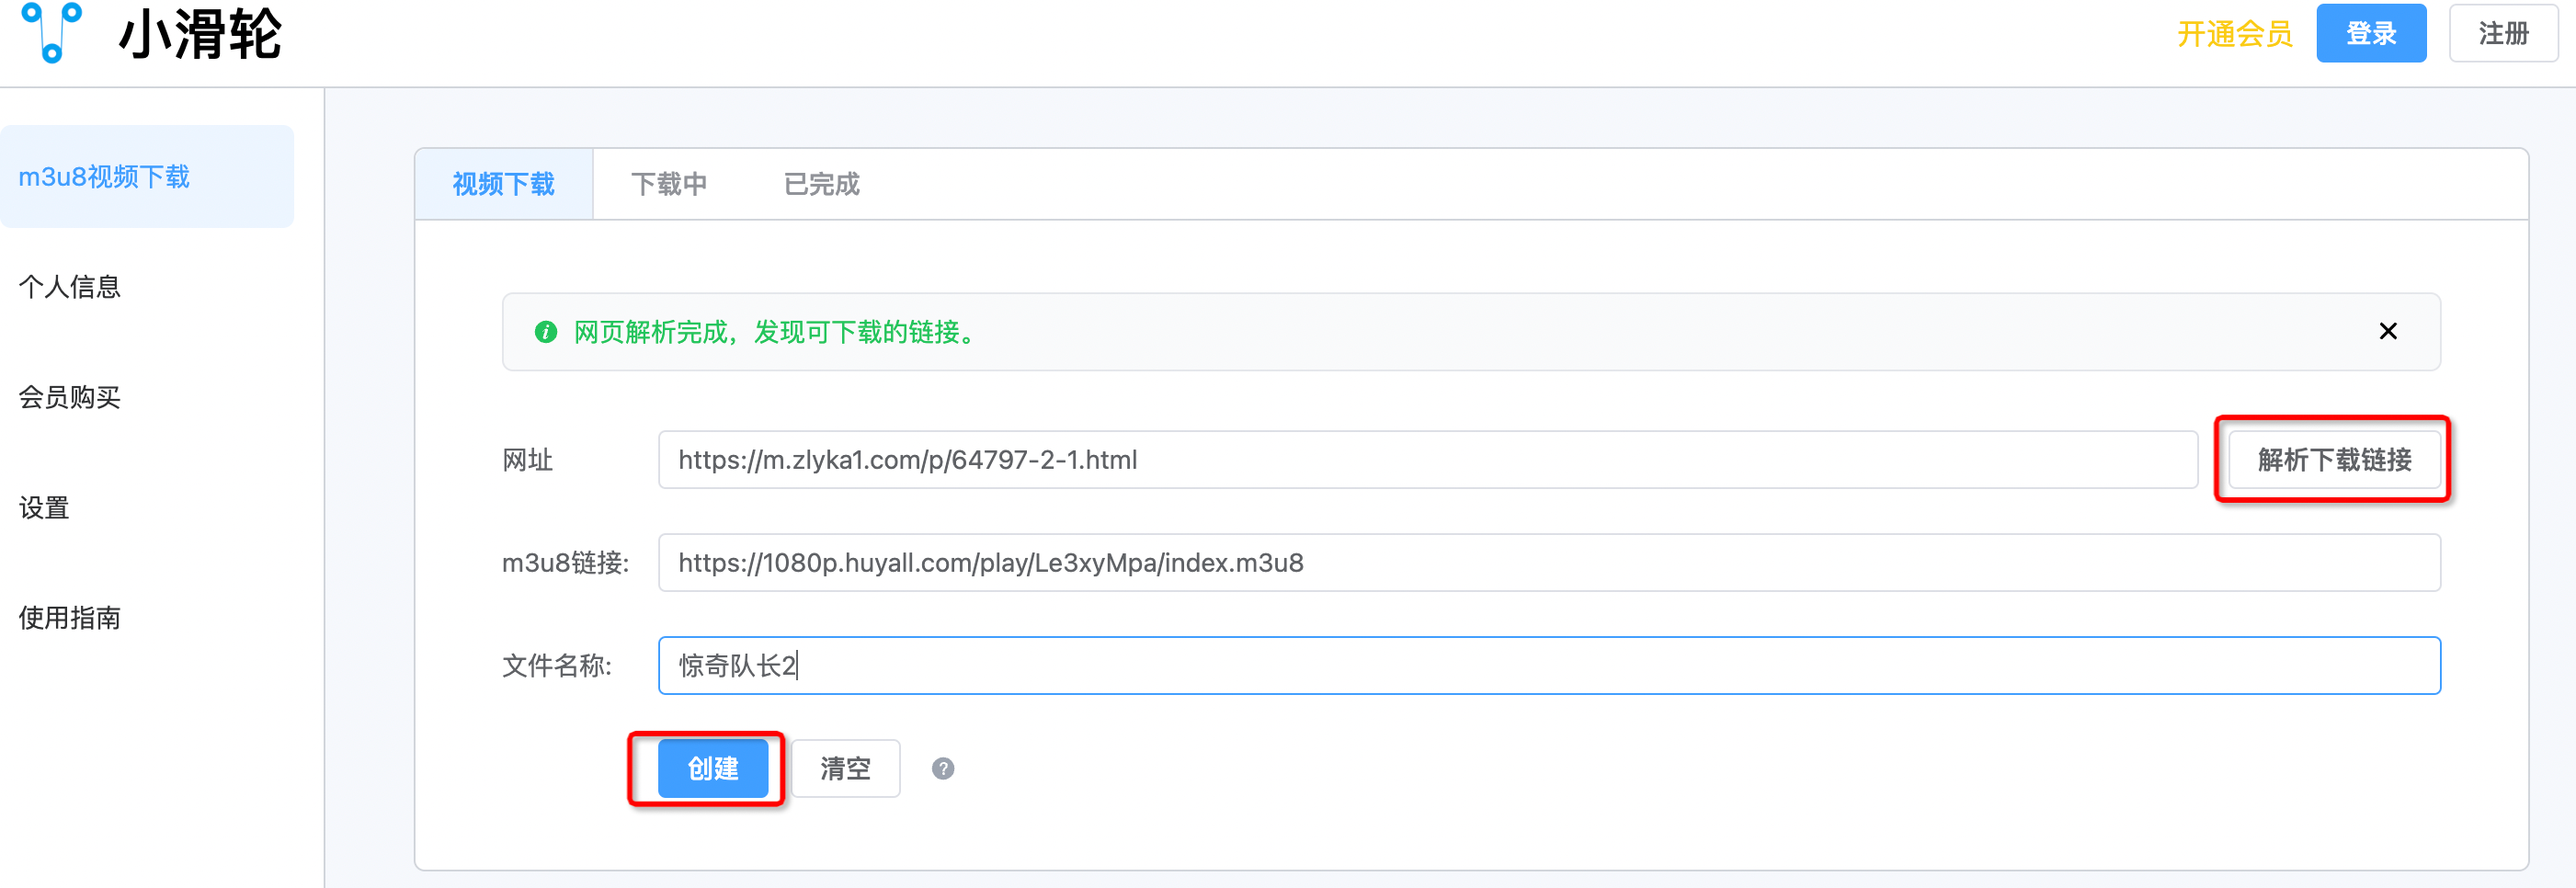
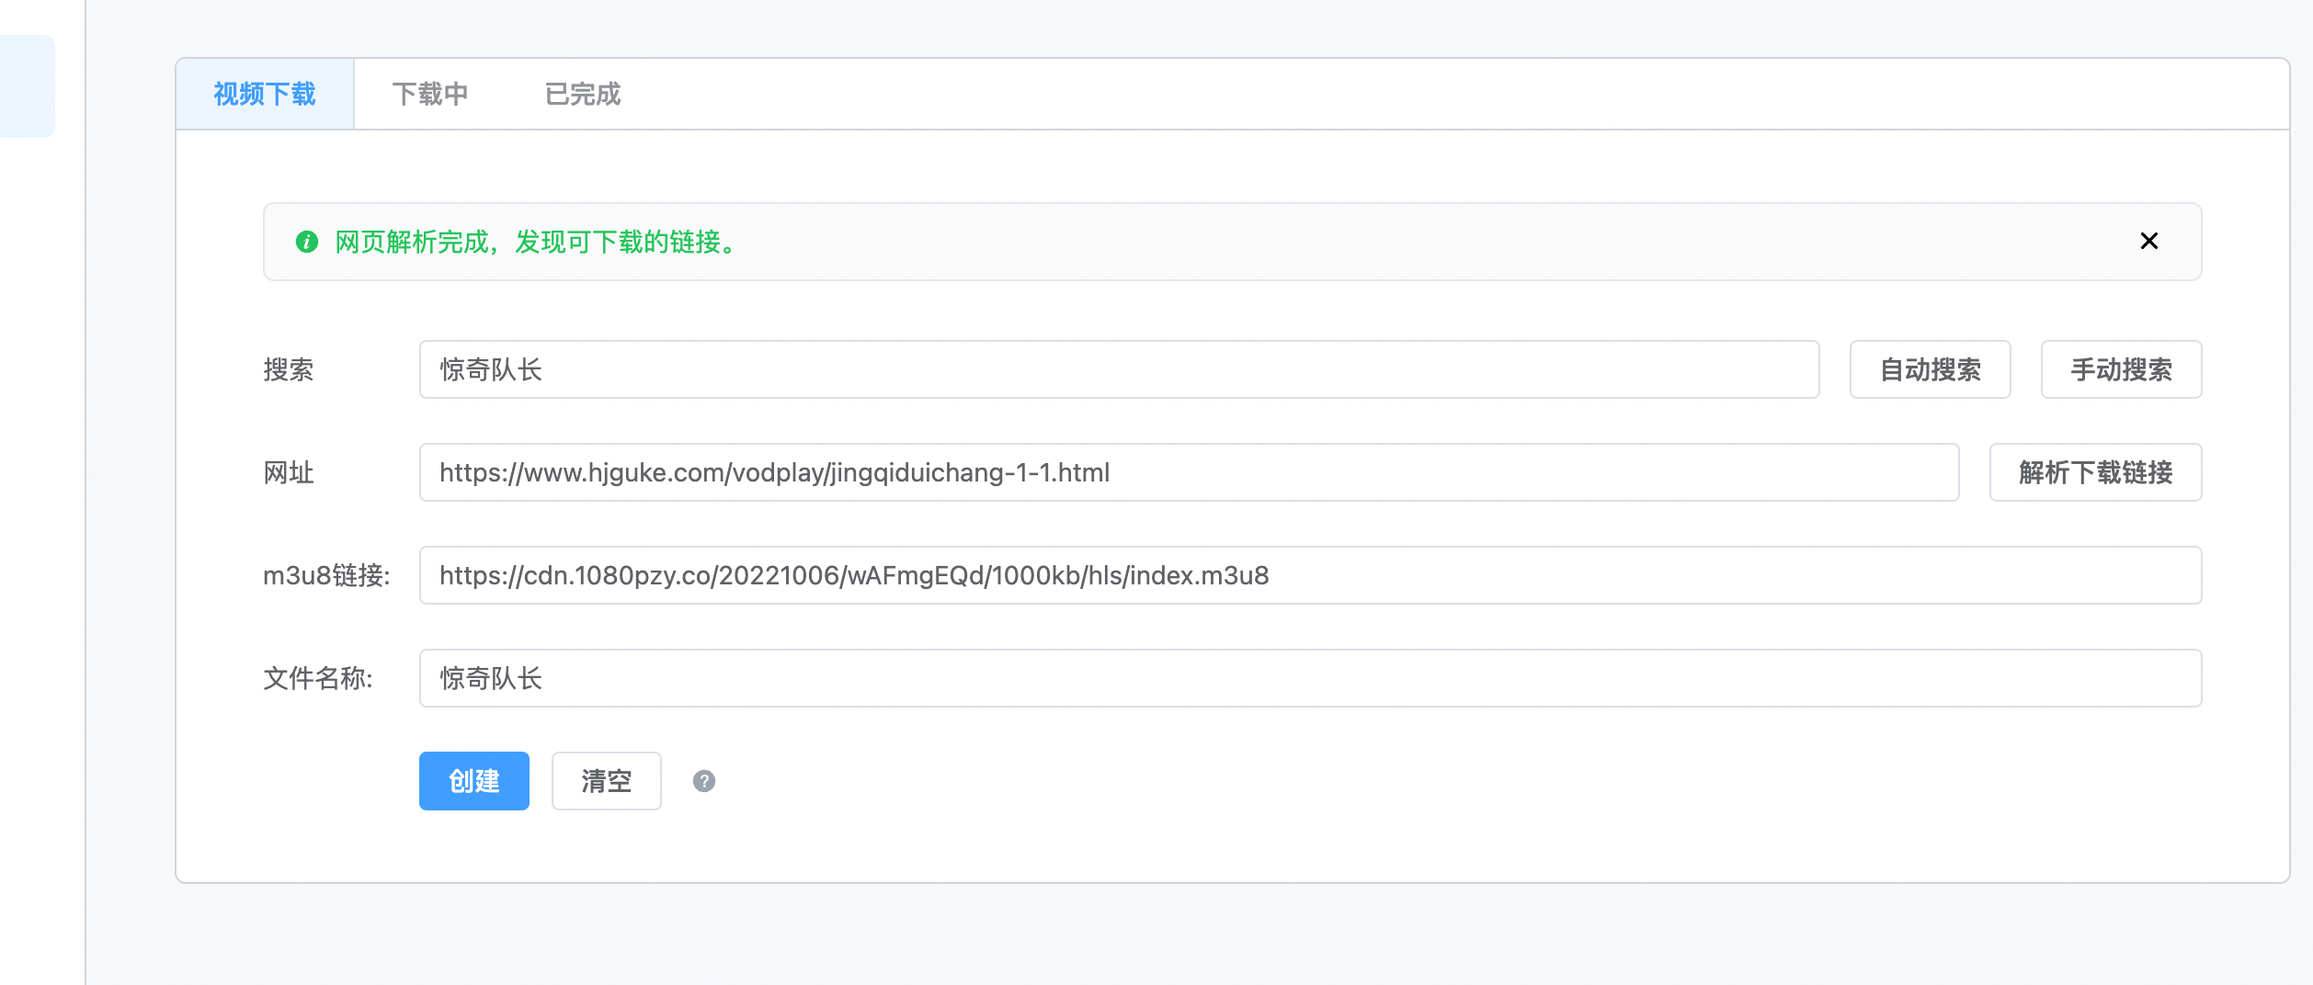
增加说明

diff --git a/src/renderer/src/views/pages/helpPage/helpPage.vue b/src/renderer/src/views/pages/helpPage/helpPage.vue
@@ -1,20 +1,32 @@
 <template>
   <div class="max-h-[calc(100vh-124px)] overflow-auto border p-5 bg-white rounded-md border-[#d1d5db]">
     <div class="">
-      <el-collapse v-model="activeNames" @change="handleChange">
+      <el-collapse v-model="activeNames">
         <el-collapse-item title="1. 如何下载视频？" name="1">
           <div class="help-answer">
             <div>
               <div class="help-answer-index">1</div>
-              在下载视频页面里，输入您想要下载的视频网页地址（比如：https://m.zlyka1.com/p/64797-2-1.html ）， 然后点击'解析下载链接'。<br/>
-              它就会解析出可以下载的m3u8的下载链接。再给视频起一个名称（比如：惊奇队长2 ）， 然后点击'创建'，会创建一个下载任务。
+              在下载视频页面里，输入某个电影名称后，可以进行自动搜索，或者手动搜索。自动搜索，系统去找是否合适的下载页面网址。自动方式比较快，但是可能不准确。 <br />
+              如果自动方式没有找到，可以再用手动搜索，自己确定视频下载的页面，手动搜索时，会有个弹框，在弹框选择你确定视频页面，然后关闭弹框。<br/>
+              在网址栏里就会输入当时确定的页面。
+            </div>
+            <div><img src="./h-8.png"/></div>
+            <div><img src="./h-9.png"/></div>
+            <div>
+              <div class="help-answer-index">2</div>
+              通过点击'解析下载链接'按钮， 软件就会解析出可以下载的m3u8的下载链接。 <br />
+              再给视频起一个名称（比如：惊奇队长2 ）， 然后点击'创建'，会创建一个下载任务。
             </div>
             <div><img src="./h-6.png"/></div>
             <div>
-              <div class="help-answer-index">2</div>
+              <div class="help-answer-index">3</div>
               您在下载中，就看到这个任务了，点击开始图标，开始进行下载。下载完成后，在已完成中可以看到视频了。
             </div>
             <div><img src="./h-7.png"/></div>
+            <div>
+              <div class="help-answer-index">4</div>
+              如果上面的步骤不是很好用，您可以自己找m3u8链接，具体步骤，可以看问题2（如何获取m3u8链接）。
+            </div>
           </div>
         </el-collapse-item>
         <el-collapse-item title="2. 如何获取m3u8链接？" name="2">

diff --git a/src/main/m3u8Video/search/searchResource.js b/src/main/m3u8Video/search/searchResource.js
@@ -98,7 +98,7 @@ async function analysisResultDom (page) {
 export function openSearchWindow(event, searchText) {
     const searchUrl = `https://quark.sm.cn/s?q=${searchText}&safe=1&snum=20`
     const window = new BrowserWindow({
-        parent: global.mainWindow, modal: true, frame: true, show: true,
+        parent: global.mainWindow, modal: false, frame: true, show: true,
         closable: true,
         enableLargerThanScreen: true,
         type: 'panel'
